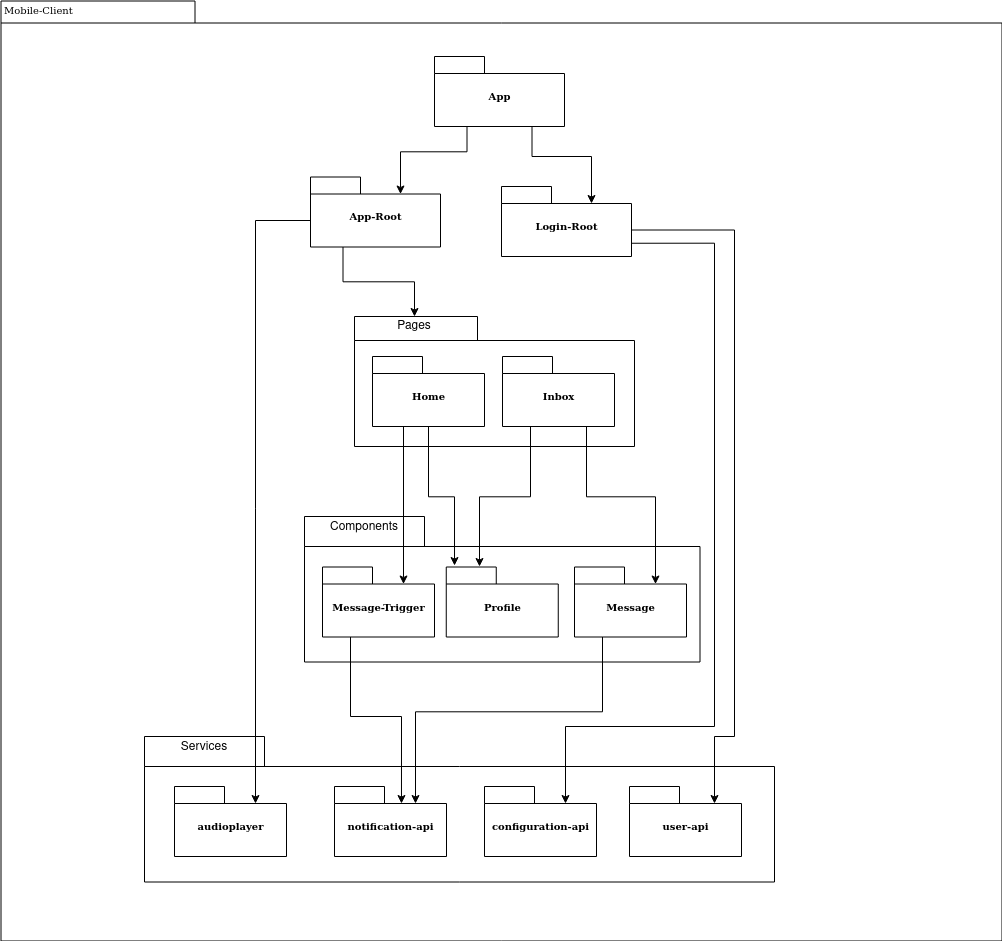
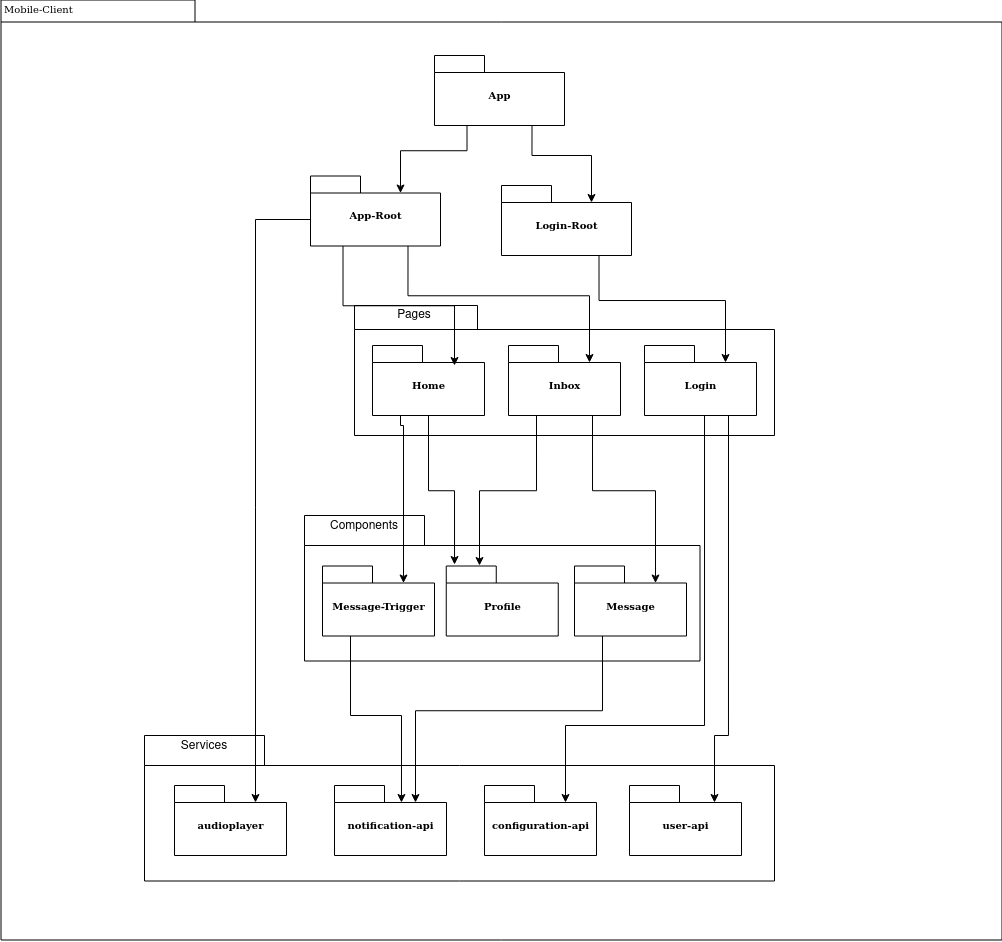
change diagramm

diff --git a/src/sections/concept/mobileclient.tex b/src/sections/concept/mobileclient.tex
@@ -25,6 +25,10 @@ Im Umkehrschluss findet eine Typenkonversion via Marshalling Service statt\cite{
     \caption[Mobile-Client Package Diagramm]{Mobile-Client Package Diagramm}
 \end{figure}
 
+Der Mobile-Client wird mit modularen Komponenten aufgebaut.
+Dem App-Kontext werden zwei voneinander getrennte Root-Module zur Verfügung gestellt.
+
+
 \clearpage
 
 \subsubsection{User Interface}
